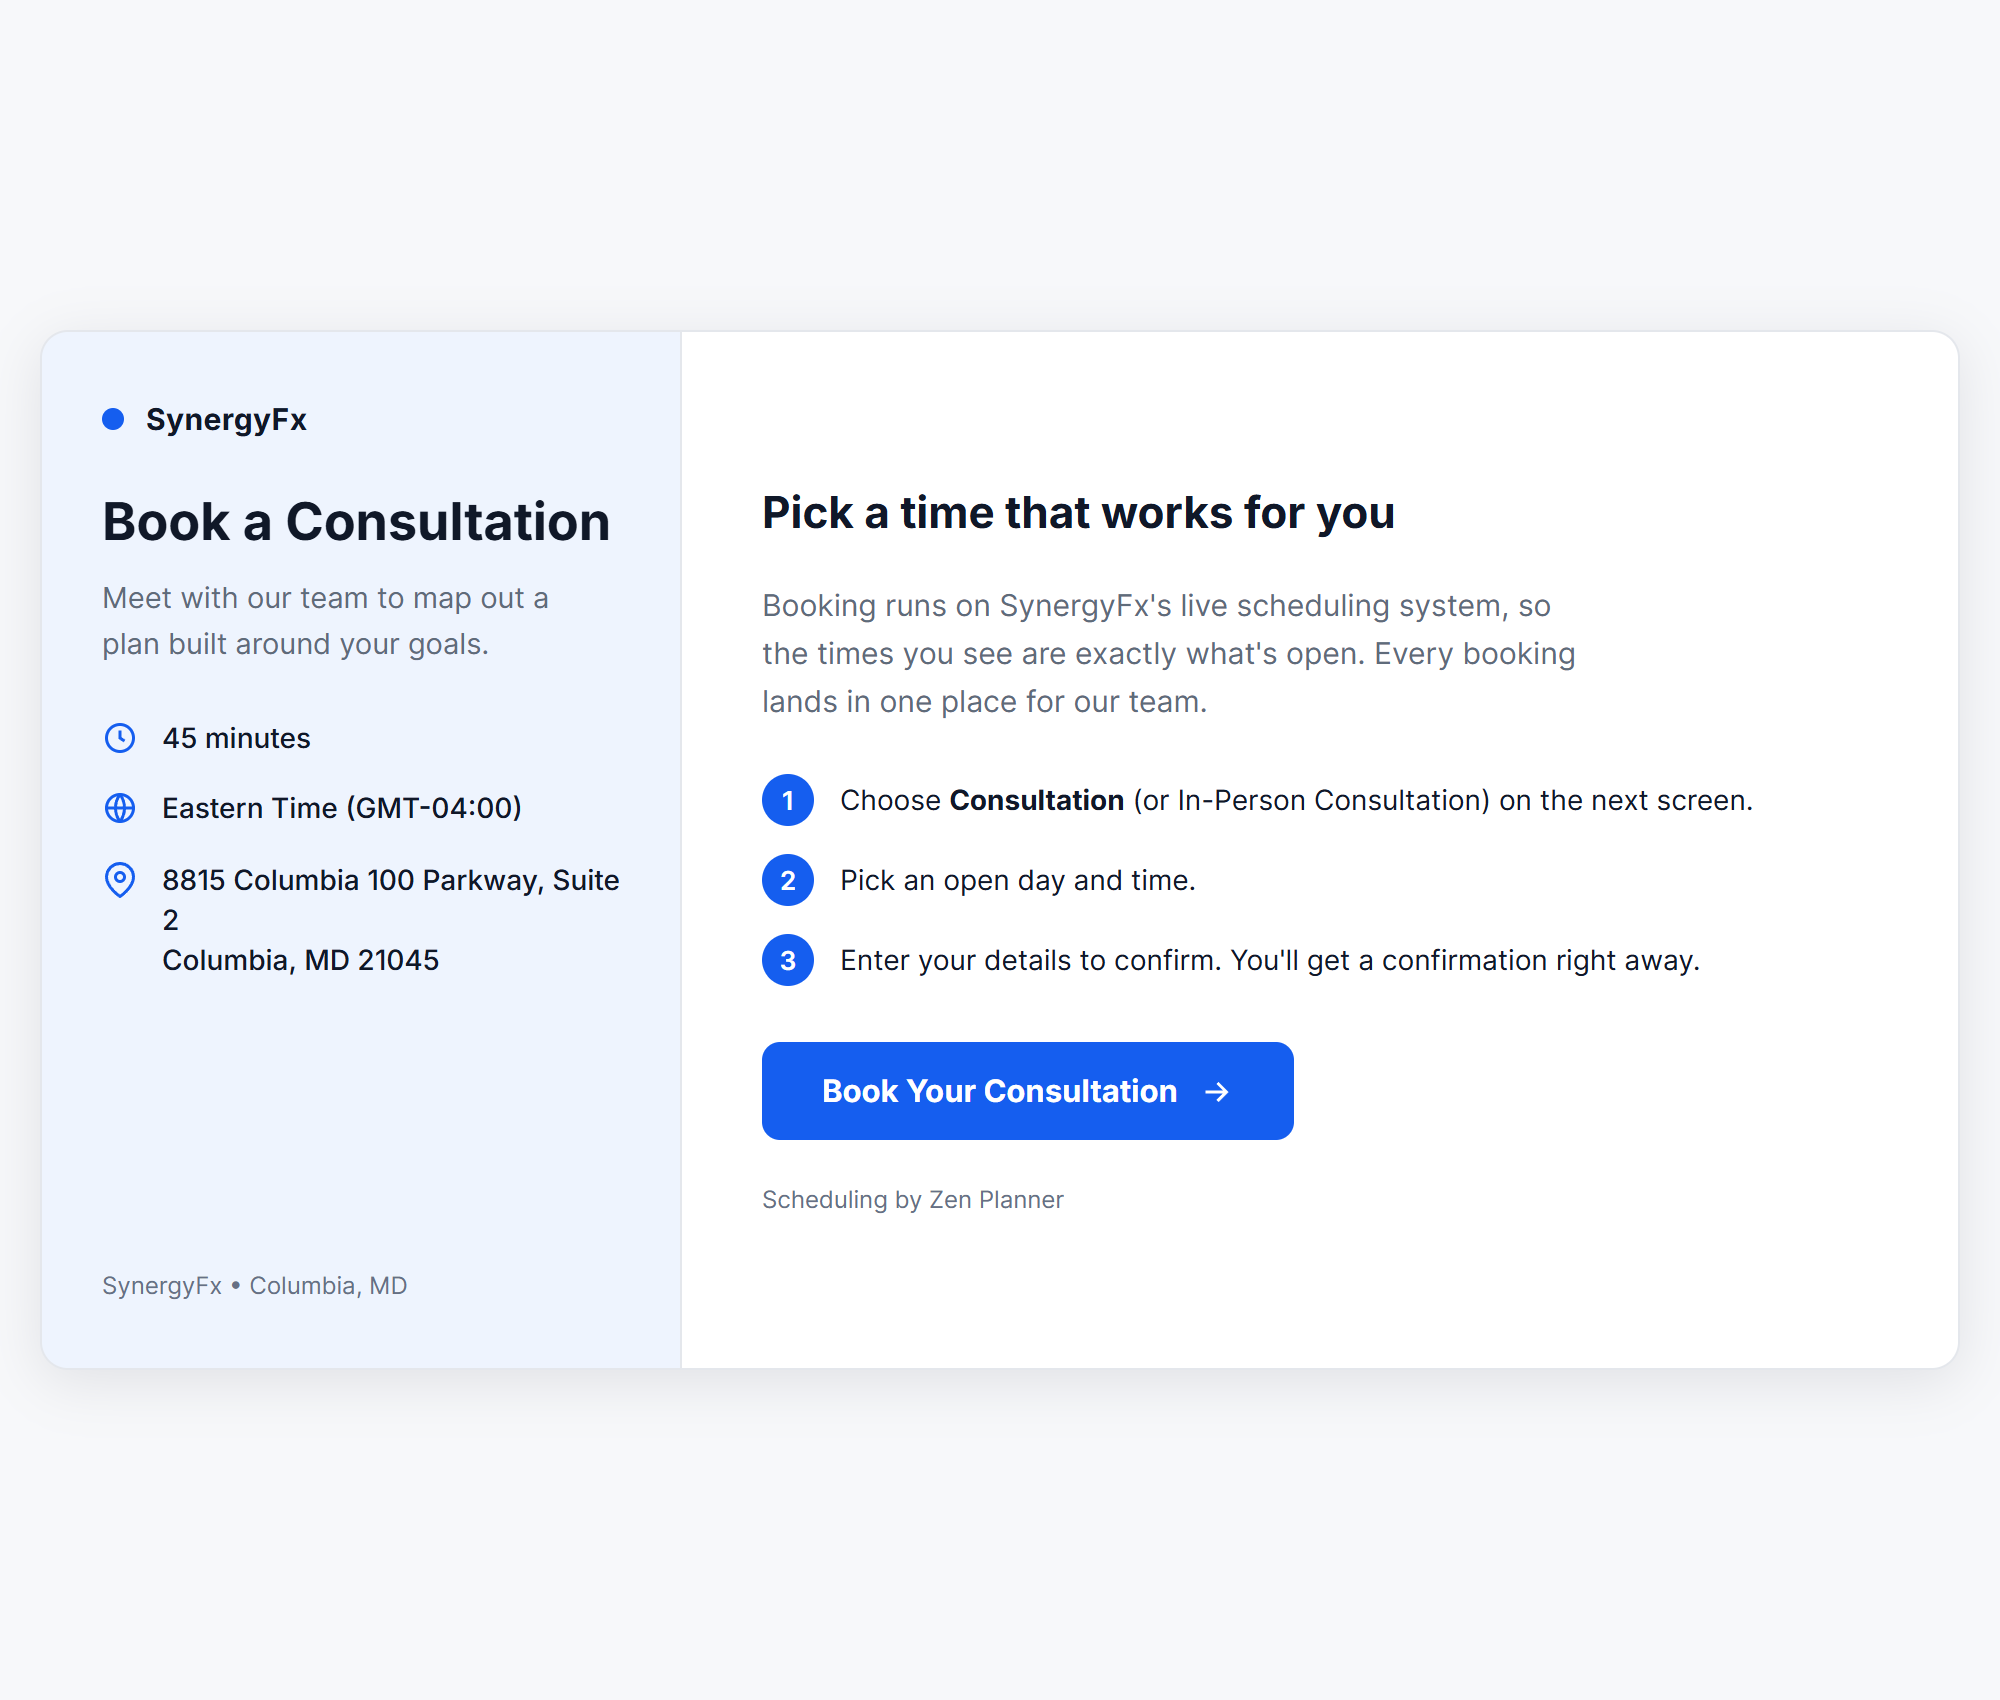
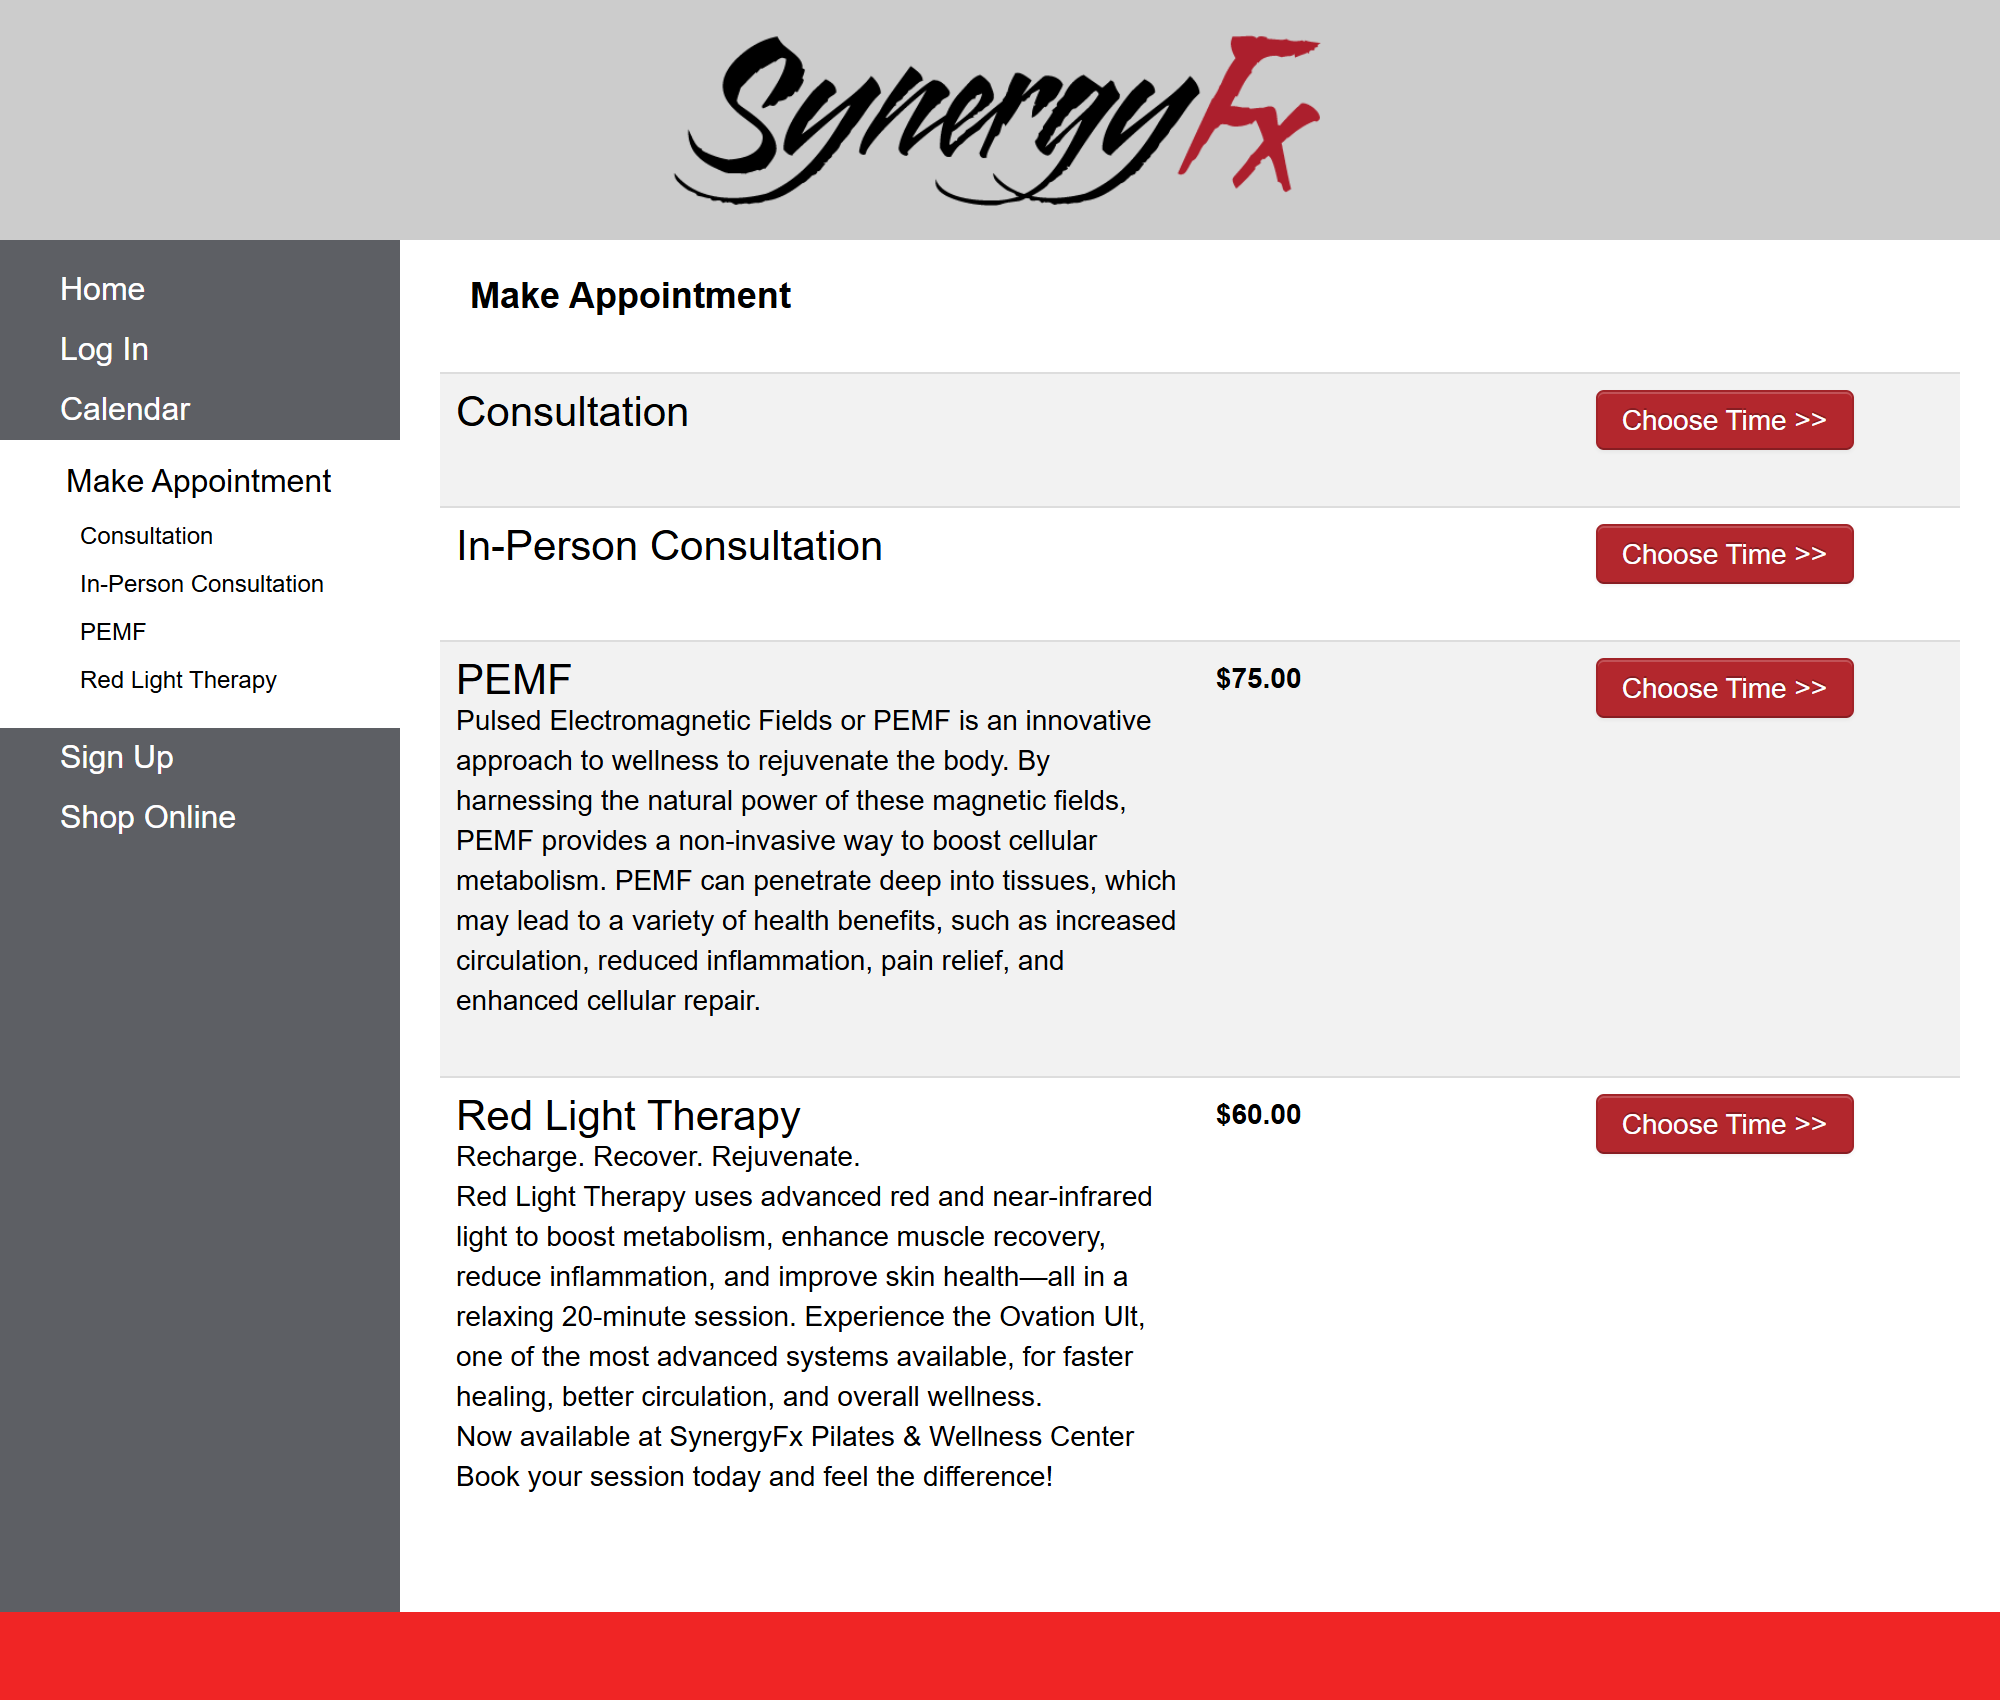
SynergyFx inbox: Forms booking link goes straight to the Zen Planner scheduler

diff --git a/synergyfx-inbox/index.html b/synergyfx-inbox/index.html
@@ -217,8 +217,8 @@
     <section class="zp-cal" id="zpCal"></section>
     <section class="zp-forms" id="zpForms">
       <div class="zp-form-col">
-        <div class="zp-form-head">Booking page <a href="../synergyfx/" target="_blank" rel="noopener">Open form</a></div>
-        <a class="zp-form-shot" href="../synergyfx/" target="_blank" rel="noopener"><img src="assets/form-book.png" alt="SynergyFx booking page preview" loading="lazy"></a>
+        <div class="zp-form-head">Booking / scheduler <a href="https://synergyfxfit.zenplanner.com/zenplanner/portal/scheduler.cfm" target="_blank" rel="noopener">Open form</a></div>
+        <a class="zp-form-shot" href="https://synergyfxfit.zenplanner.com/zenplanner/portal/scheduler.cfm" target="_blank" rel="noopener"><img src="assets/form-book.png" alt="Zen Planner scheduler preview" loading="lazy"></a>
       </div>
       <div class="zp-form-col">
         <div class="zp-form-head">Contact / lead form <a href="../synergyfx-contact/" target="_blank" rel="noopener">Open form</a></div>